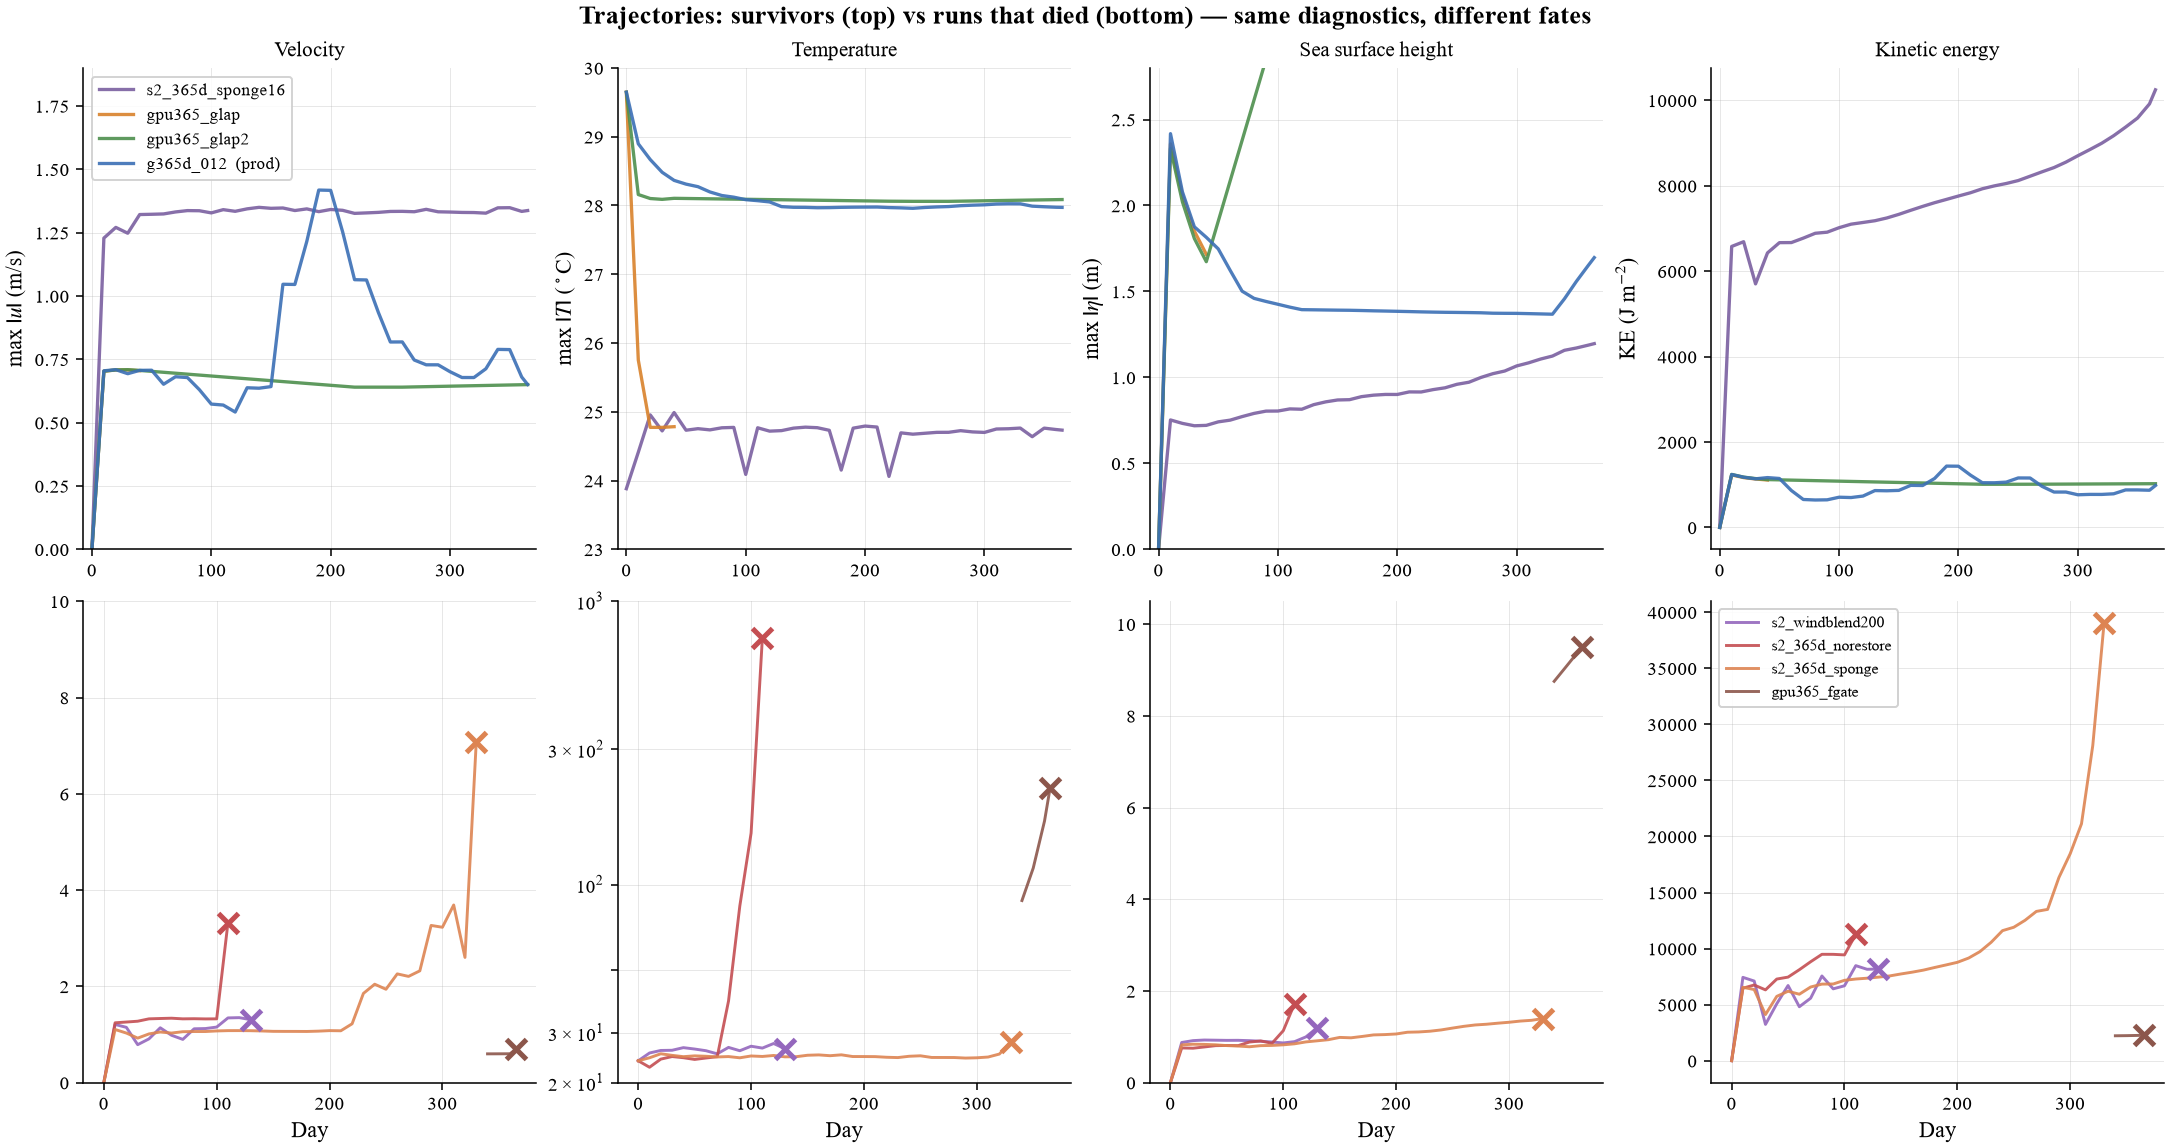
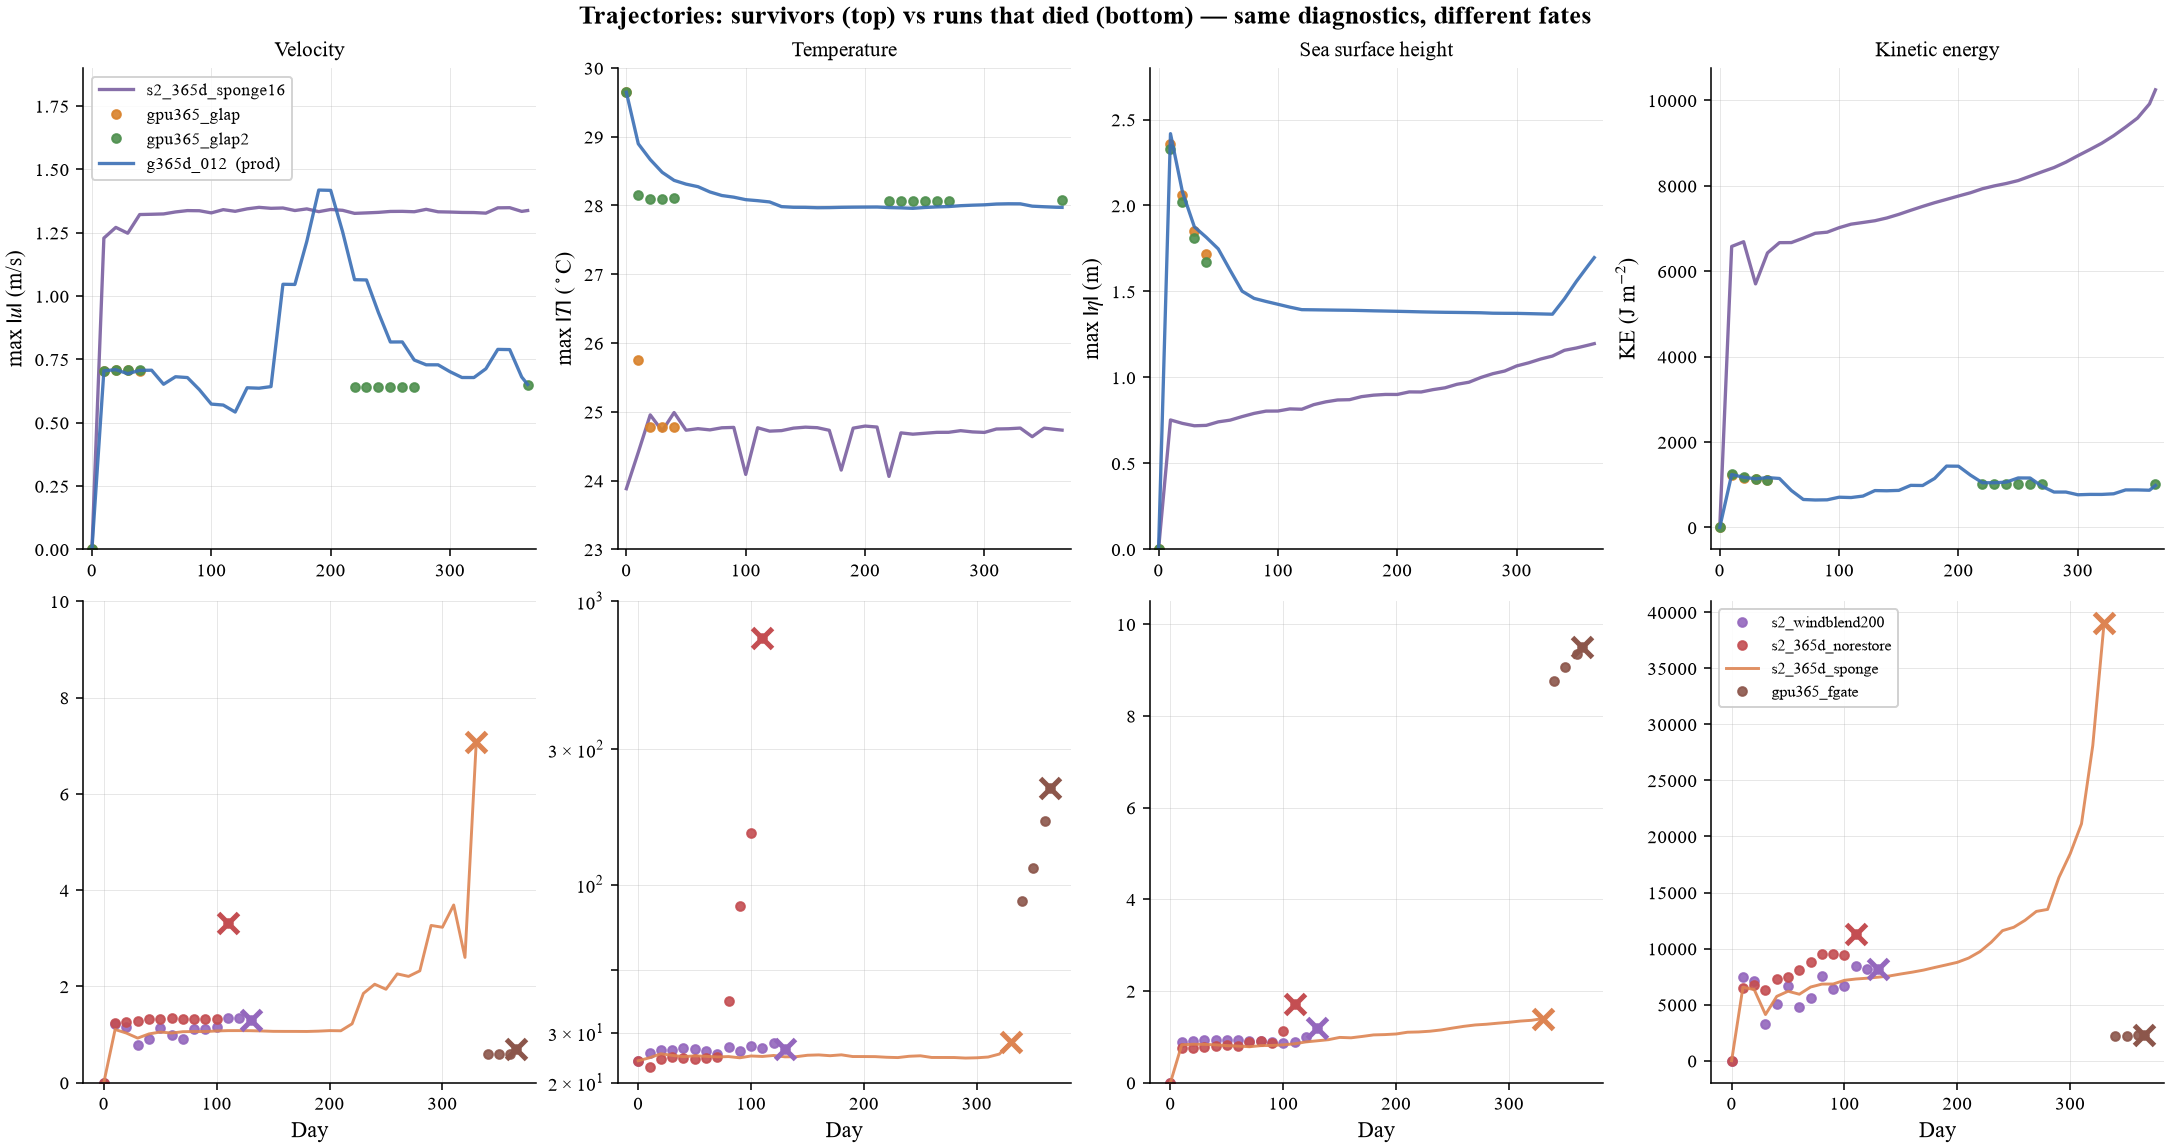
fix(fig2): sparse console-derived global runs drawn as markers, not lines
fgate/glap/glap2 trajectories were reconstructed from PTY console
scraps (4-12 points each, big gaps); connecting them with lines made
gaps read as straight-line data. Now: >20 points -> line, fewer ->
markers only. Full logs lived on k8s-node3-gpu which is decommissioned;
/data is not shared across gateway nodes (checked 012 and 014).

diff --git a/results/campaign_compare/make_campaign_figs.py b/results/campaign_compare/make_campaign_figs.py
@@ -282,8 +282,11 @@ for j, (ylab, key, _) in enumerate(PANELS):
     ax = axes[0, j]
     for name in SURV:
         r = by[name]
-        ax.plot(r["days"], r[key], "-", color=SURV_C[name], lw=1.7,
-                alpha=0.9,
+        # console-derived runs kept only sparse samples (5-12 pts) — draw
+        # them as markers, not lines, so gaps never read as data
+        st = "-" if len(r["days"]) > 20 else "o"
+        ax.plot(r["days"], r[key], st, color=SURV_C[name], lw=1.7,
+                ms=4.5, alpha=0.9,
                 label=(f"{name}" + ("  (prod)" if name == "g365d_012" else "")))
     ax.set_ylabel(ylab)
     ax.grid(alpha=0.3)
@@ -304,8 +307,9 @@ for j, (ylab, key, _) in enumerate(PANELS):
         r = by[name]
         c = DIED_C[name]
         v = np.isfinite(r[key])
-        ax.plot(r["days"][v], np.abs(r[key][v]), "-", color=c, lw=1.5,
-                alpha=0.9, label=name)
+        st = "-" if v.sum() > 20 else "o"
+        ax.plot(r["days"][v], np.abs(r[key][v]), st, color=c, lw=1.5,
+                ms=4.5, alpha=0.9, label=name)
         # death marker at last finite point
         if v.any():
             ax.plot(r["days"][v][-1], np.abs(np.asarray(r[key])[v][-1]),
